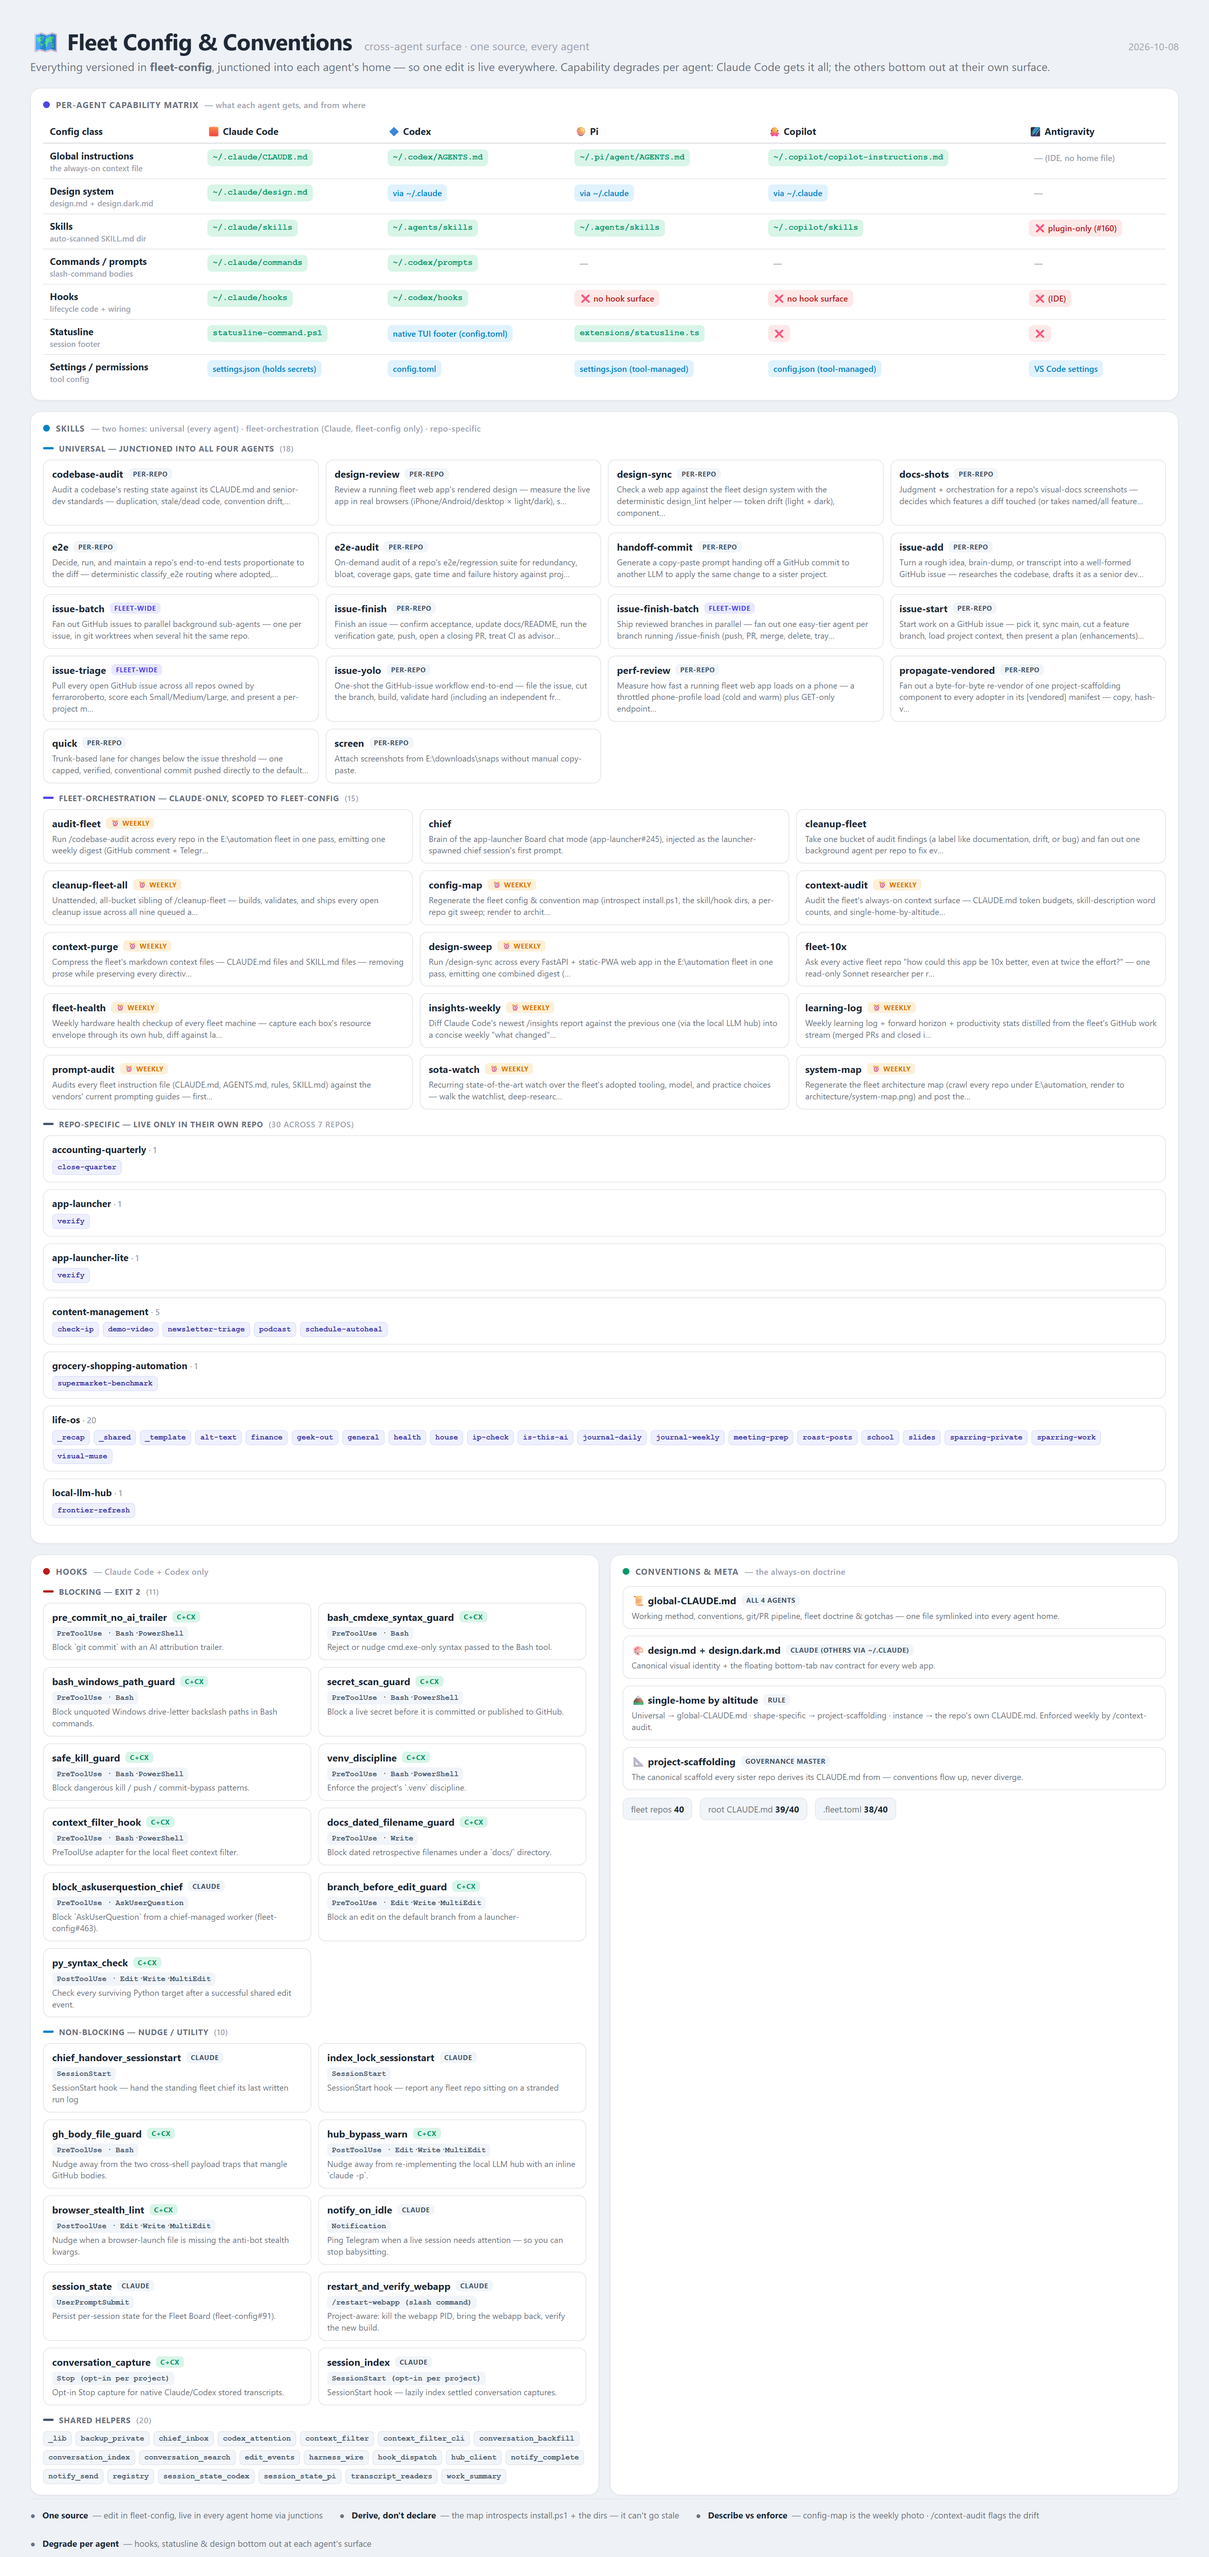
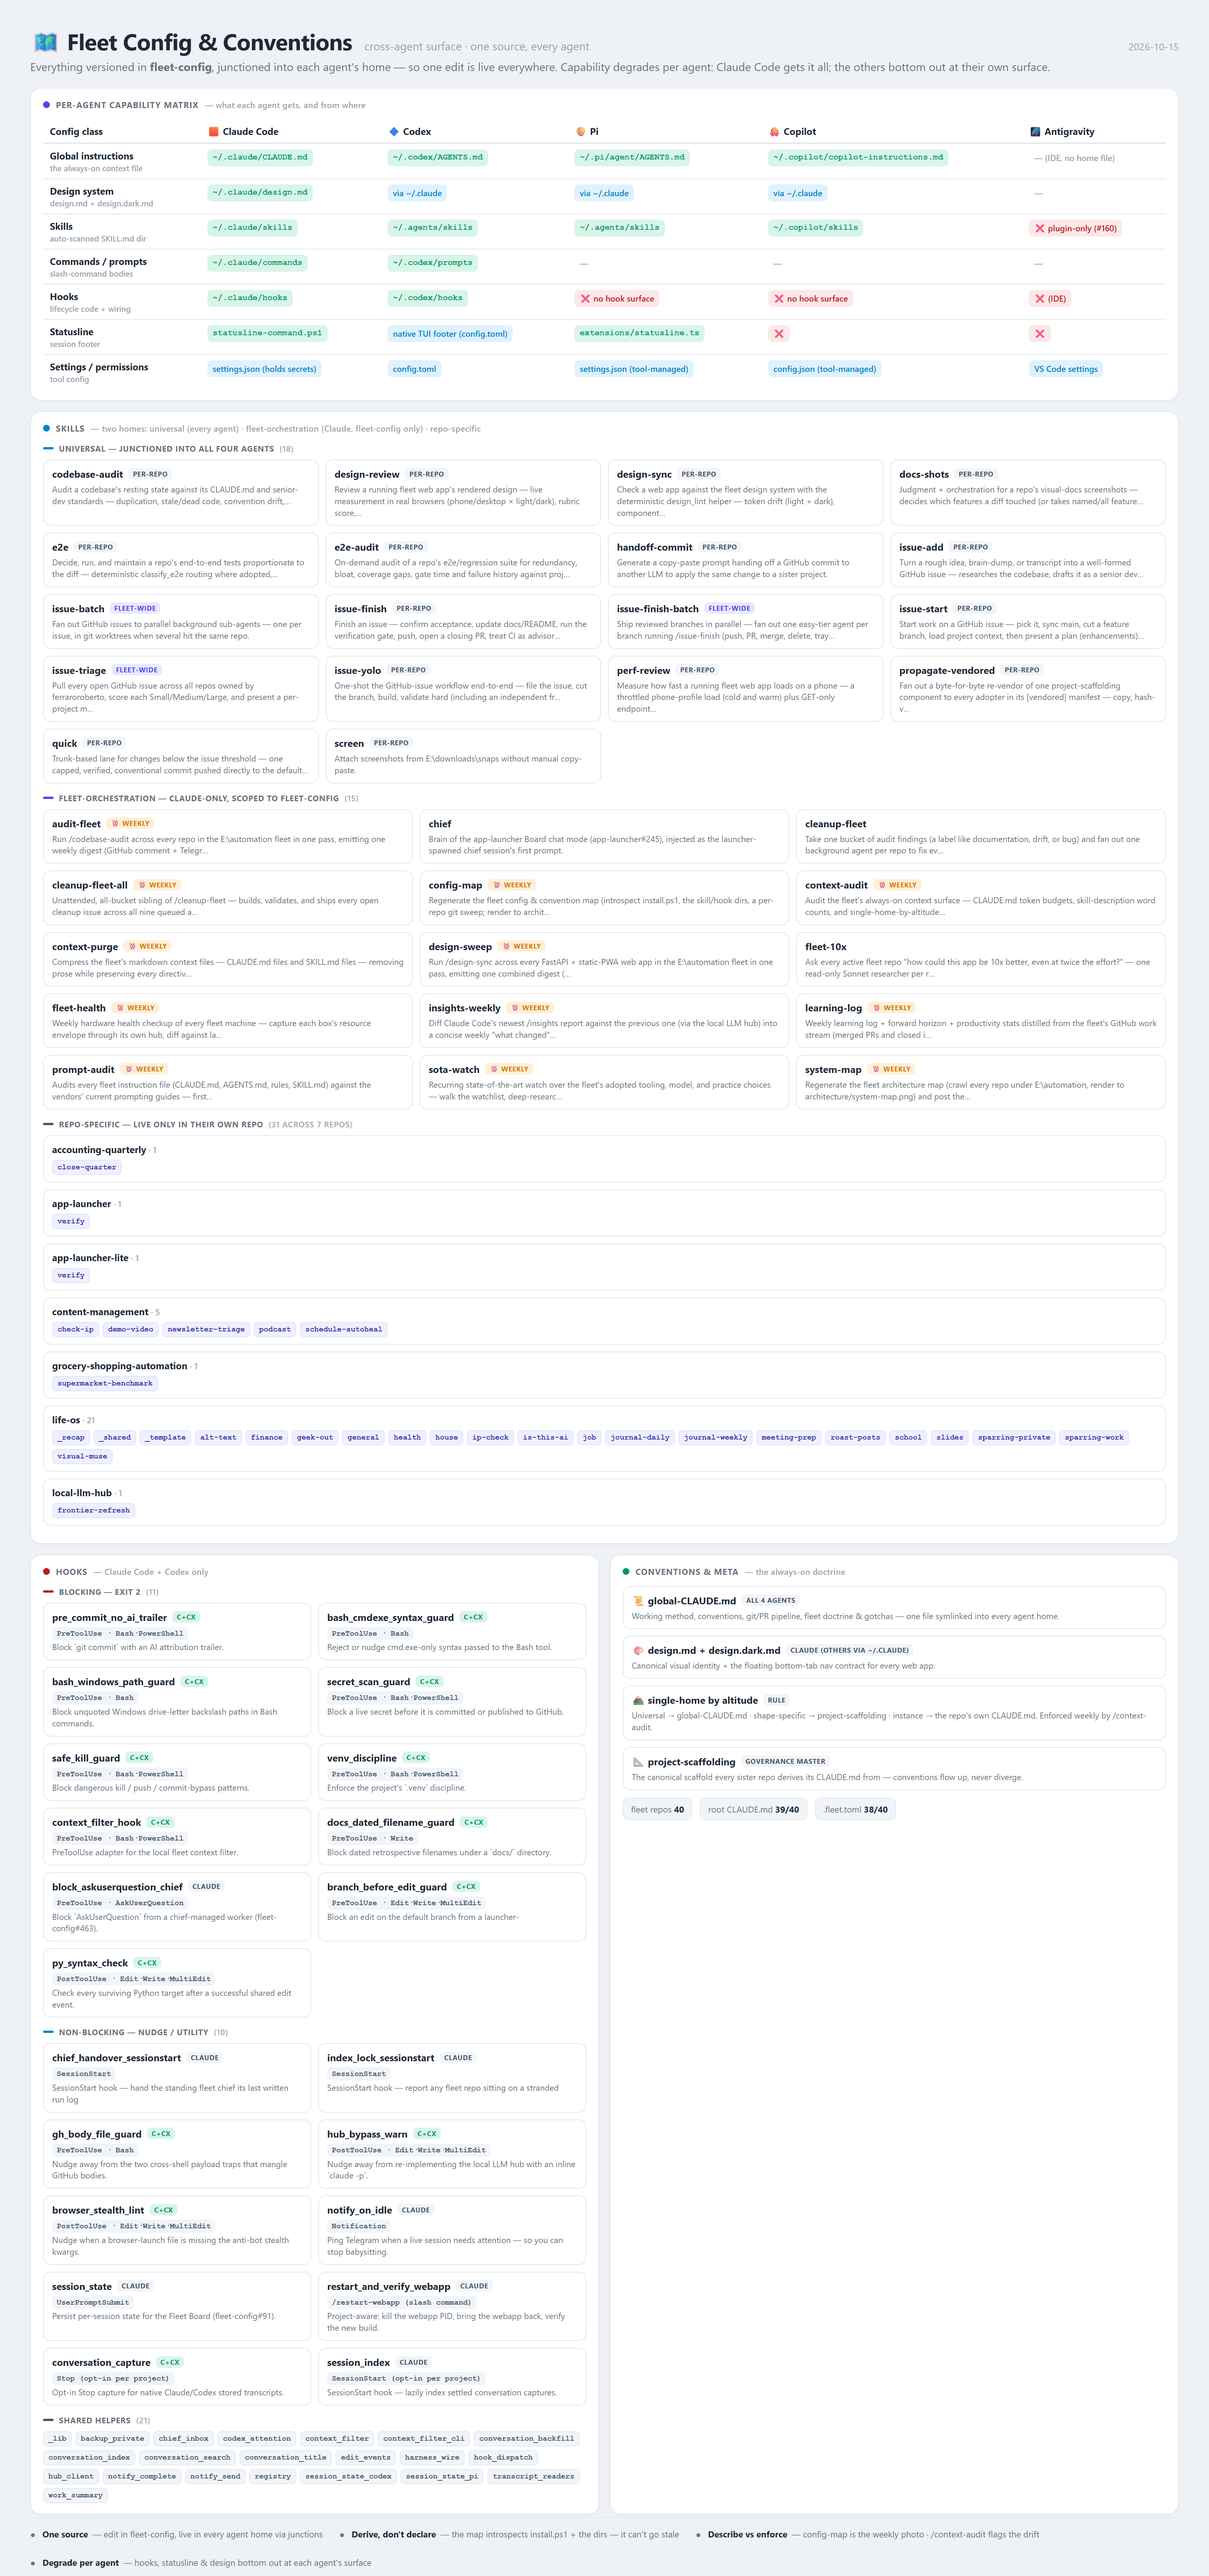
docs: refresh config map (2026-10-16)

diff --git a/architecture/config.data.js b/architecture/config.data.js
@@ -123,7 +123,7 @@ window.CONFIG = {
     },
     {
       "nm": "design-review",
-      "ds": "Review a running fleet web app's rendered design — measure the live app in real browsers (iPhone/Android/desktop × light/dark), s…",
+      "ds": "Review a running fleet web app's rendered design — live measurement in real browsers (phone/desktop × light/dark), rubric score,…",
       "scope": "repo"
     },
     {
@@ -333,6 +333,7 @@ window.CONFIG = {
         "house",
         "ip-check",
         "is-this-ai",
+        "job",
         "journal-daily",
         "journal-weekly",
         "meeting-prep",
@@ -536,6 +537,10 @@ window.CONFIG = {
     {
       "nm": "conversation_search",
       "ds": "Ranked full-text search over captured conversations (fleet-config#586)."
+    },
+    {
+      "nm": "conversation_title",
+      "ds": "Set or clear the owner's title on one captured conversation (fleet-config#1348)."
     },
     {
       "nm": "edit_events",
